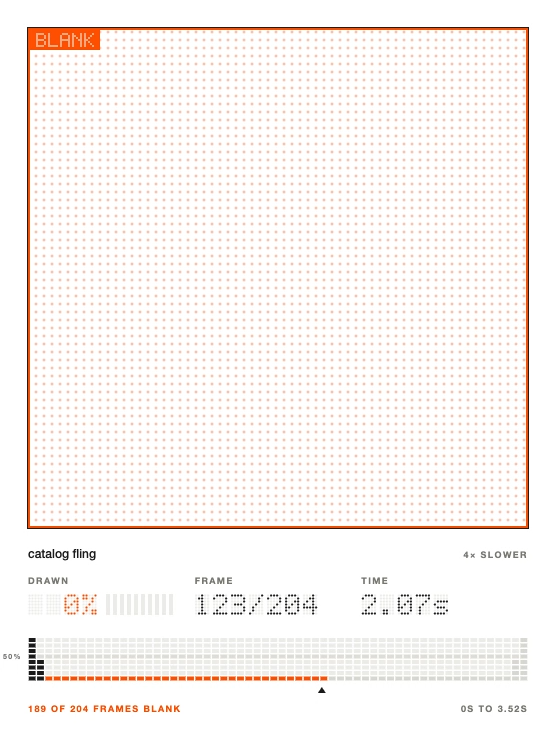
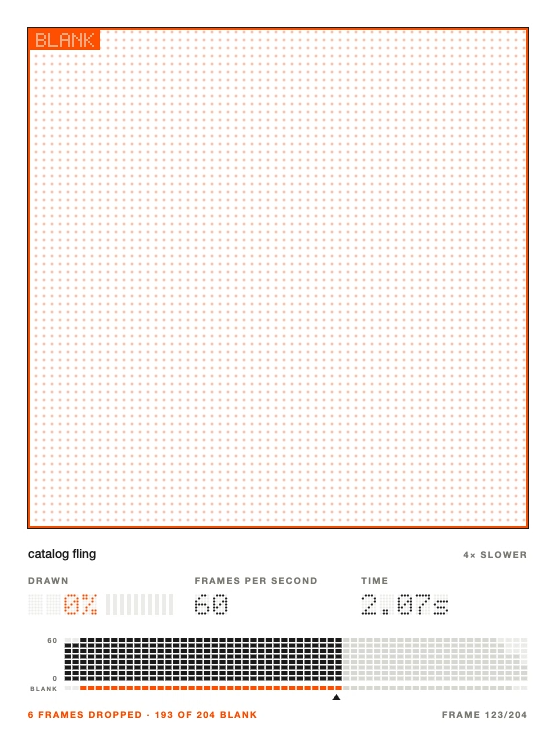
README: lead with a frame-drop replay; the blank-rows replay moves to the scroll section
The first thing people look for is dropped frames, so the top GIF is now a
demo article whose smooth-scroll script drops the frame rate to about 40fps
without a single long frame. The blank-feed replay replaces the static image in
'Scroll a list'. The docs frame is regenerated in the new design.

Changed region(s): [[0.0, 0.124, 0.9478, 0.9609], [0.0612, 0.031, 0.9478, 0.062]]

diff --git a/README.md b/README.md
@@ -2,9 +2,9 @@
 
 `playwright-smoothness` fails the build when a web UI stops being smooth. It measures scripted interactions and list scrolling in Chromium, compares each one with a stored baseline, and names the element and the code responsible when it gets worse.
 
-![A replay of a social feed flung at 6,000px/s, played 4× slower than real time: the posts disappear, and 114 of 123 frames are marked blank](docs/replay.gif)
+![A replay of a demo article scrolled 3,000px, played 4× slower than real time: the frame rate falls to about 40 frames per second and 97 frames are dropped](docs/replay-frame-rate.gif)
 
-When a full-mode scroll check gets worse, the test gets a replay like this one, from a demo feed whose posts take too long to build. Most frames still arrived on time (86%), but the list was blank in 114 of 123 of them.
+When a full-mode scroll check gets worse, the test gets a replay like this one. The demo article has a smooth-scrolling script that moves the page itself on every frame, and the frame rate falls to about 40 frames per second. No single frame took 50ms, so the browser's Long Animation Frames API never reported one; the dropped frames came from Chrome's own frame timeline.
 
 If you're deciding whether to add it, [Before you adopt it](docs/faq.md) covers how much time it adds to your suite, how it keeps CI from going flaky, and how it differs from Lighthouse and RUM. It only warns until you switch a check to fail, it has no runtime dependencies, and it doesn't send data anywhere.
 
@@ -94,9 +94,9 @@ await smoothness.measure('add to cart', action, {
 
 ## Scroll a list
 
-![A virtualized list, flung at 6,000px/s: drawn in every frame (left), and blank in 92% of frames while 97% of frames are still on time (right)](docs/hero.png)
+![A replay of a demo feed flung at 6,000px/s: the page keeps 60 frames per second, but the posts disappear and 114 of 123 frames are blank](docs/replay-blank-rows.gif)
 
-Dropped frames don't show a list going blank. On the right, 97% of frames arrive on time, but the rows aren't there. `scroll()` measures both.
+Dropped frames don't show a list going blank. In this demo feed, whose posts take too long to build, the page keeps 60 frames per second while the list is empty in 114 of 123 frames. `scroll()` measures both.
 
 `smoothness.scroll(locator, options)` does the same repeated, reloaded runs as `measure()`, with the scroll as the action:
 
@@ -113,7 +113,7 @@ In full mode it also finds blank frames. It screenshots the list at rest, then c
 await smoothness.scroll(list, { mode: 'full', list: { placeholders: ['.skeleton-row', '#e5e7eb'] } });
 ```
 
-When a full-mode `scroll()` check gets worse, a video of the measured scroll is attached to the test in the Playwright report. It plays 4× slower than real time. Each frame shows how drawn the list was, blank frames are marked in red, and a timeline shows where they happened. `replay: 'on'` attaches one every time, and `'off'` never. The video is built from the frames the measurement already recorded, so making it doesn't change the numbers.
+When a full-mode `scroll()` check gets worse, a video of the measured scroll is attached to the test in the Playwright report. It plays 4× slower than real time. Each frame shows how drawn the list was and the frame rate at that moment. A graph of the whole run shows the frame rate, with dropped frames and blank frames in orange. `replay: 'on'` attaches one every time, and `'off'` never. The video is built from the frames the measurement already recorded, so making it doesn't change the numbers.
 
 [docs/list-detection.md](docs/list-detection.md) explains how blank frames are detected, and what the detection can't see.
 

diff --git a/docs/list-detection.md b/docs/list-detection.md
@@ -36,9 +36,9 @@ The line-counting function (`src/list/coverage.ts`) is plain code with no depend
 
 ## Replays
 
-A replay turns a measured run's screenshots into a WebM video attached to the test (`smoothness replay: <label>`). The run chosen is the one whose blank-frame share is closest to the reported median. Each frame shows the list outlined; on a blank frame it's covered with an orange halftone screen and tagged **BLANK**. Underneath, a small display reads out how drawn the list was (with a ten-segment meter), the frame number and the time, over an LCD-style bar graph of the whole run: 60 columns of segments, each covering a slice of the run and lit up to its worst frame, with a blank slice shown as one orange segment. It plays 4× slower than real time (`REPLAY_SLOWDOWN`), because at 60 frames a second a blank frame lasts 16ms.
+A replay turns a measured run's screenshots into a WebM video attached to the test (`smoothness replay: <label>`). The run chosen is the one whose blank-frame share is closest to the reported median. Each frame shows the list outlined; on a blank frame it's covered with an orange halftone screen and tagged **BLANK**. Underneath, a small display reads out how drawn the list was (with a ten-segment meter), the frame rate over the last 250ms (orange while frames are being dropped) and the time. An LCD-style graph of the whole run shows the frame rate in 60 columns, each lit up to its frames per second and orange where frames were dropped, over a one-row strip that marks blank frames. It plays 4× slower than real time (`REPLAY_SLOWDOWN`), because at 60 frames a second a blank frame lasts 16ms.
 
-![A frame from a replay: the list covered in an orange halftone and tagged BLANK, 0% drawn on frame 123 of 204, over an LCD bar graph of the run](replay-frame.png)
+![A frame from a replay: the list covered in an orange halftone and tagged BLANK, 0% drawn at 60 frames per second on frame 123 of 204, over a graph of the frame rate with blank frames marked underneath](replay-frame.png)
 
 - `replay: 'on-regression'` (the default) attaches one when a check got worse. `'on'` attaches one for every full-mode `scroll()`, and `'off'` never.
 - It's made after the test body, from frames the measurement already recorded, so it doesn't affect the numbers. When no replay is wanted, nothing is encoded.
